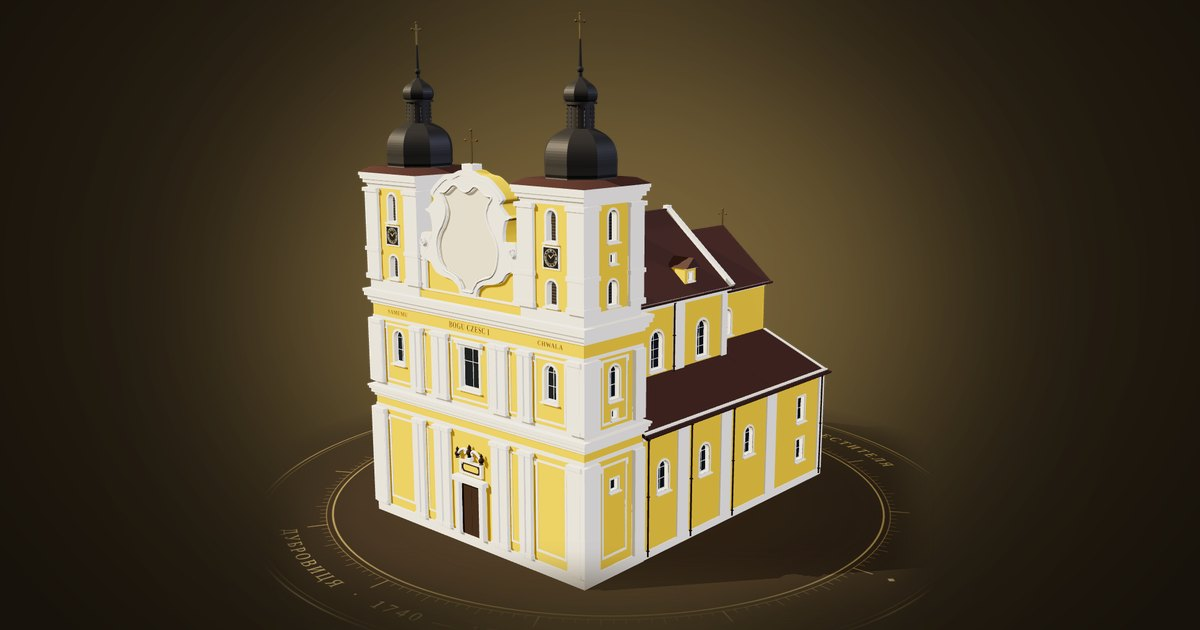
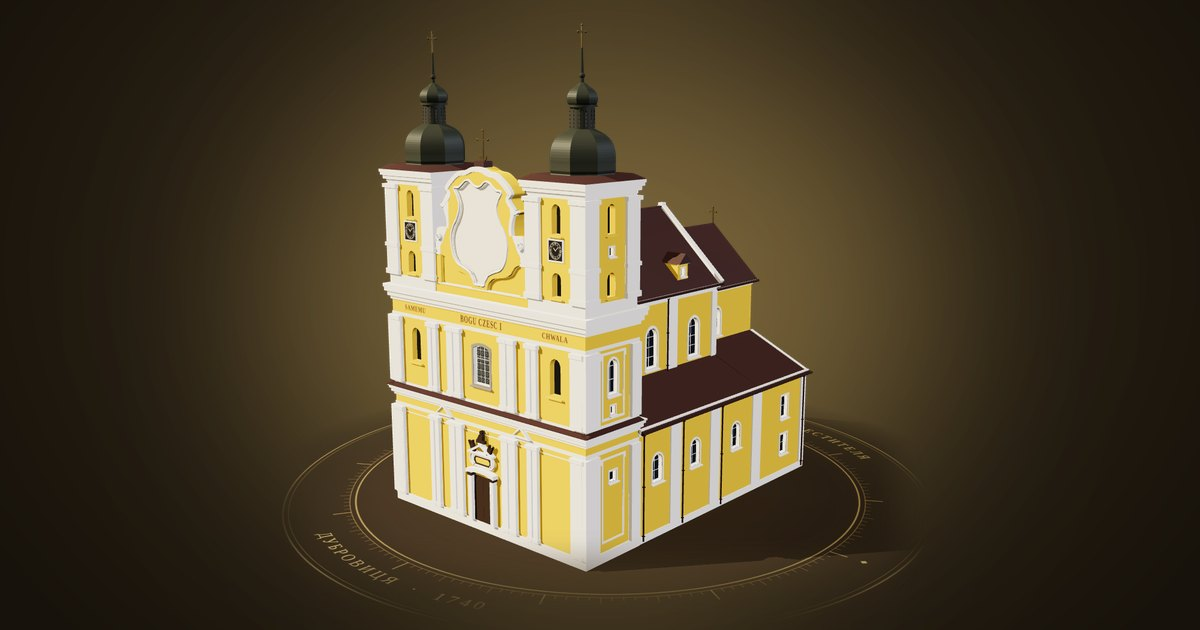
Add files via upload

Changed region(s): [[0.2158, 0.0905, 0.74, 0.9349], [0.4625, 0.1206, 0.4933, 0.2413]]

diff --git a/kostel-3d.js b/kostel-3d.js
@@ -51,9 +51,9 @@ var M = {
   wall:  mat('#eebf30'),
   trim:  mat('#f5f2ea'),
   roof:  mat('#4b3430', {roughness:.55}),
-  field: mat('#e2dacb', {roughness:.95}),
-  dome:  mat('#3a3a3b', {roughness:.62, metalness:.22}),
-  domeF: mat('#3a3a3b', {roughness:.55, metalness:.25, flatShading:true}),
+  field: mat('#efebe2', {roughness:.95}),
+  dome:  mat('#3f4239', {roughness:.62, metalness:.22}),
+  domeF: mat('#43473d', {roughness:.55, metalness:.25, flatShading:true}),
   glass: mat('#2a3036', {roughness:.18, metalness:.1}),
   louv:  mat('#2a2622', {roughness:.7}),
   door:  mat('#3b2a1c', {roughness:.8}),
@@ -77,6 +77,8 @@ var FRONT = 0, RIGHT = Math.PI/2, LEFT = -Math.PI/2, BACK = Math.PI;
 function ext(shape, depth, seg){ return new THREE.ExtrudeGeometry(shape, {depth:depth, bevelEnabled:false, curveSegments:seg||20}); }
 function V(x, y){ return new THREE.Vector2(x, y); }
 function archS(w, yb, yc, path){ var r = w/2, s = path ? new THREE.Path() : new THREE.Shape(); s.moveTo(-r, yb); s.lineTo(r, yb); s.lineTo(r, yc); s.absarc(0, yc, r, 0, Math.PI, false); s.lineTo(-r, yb); return s; }
+function segS(w, yb, yt, rise, path){ var r = w/2, R = (r*r + rise*rise)/(2*rise), cy = yt - R, a0 = Math.atan2(yt - rise - cy, r), s = path ? new THREE.Path() : new THREE.Shape();
+  s.moveTo(-r, yb); s.lineTo(r, yb); s.lineTo(r, yt - rise); s.absarc(0, cy, R, a0, Math.PI - a0, false); s.lineTo(-r, yb); return s; }
 function rectS(w, yb, yt, path){ var s = path ? new THREE.Path() : new THREE.Shape(); s.moveTo(-w/2, yb); s.lineTo(w/2, yb); s.lineTo(w/2, yt); s.lineTo(-w/2, yt); s.lineTo(-w/2, yb); return s; }
 function ring(r0, r1){ var s = new THREE.Shape(); s.absarc(0, 0, r1, 0, Math.PI*2, false); s.holes.push(new THREE.Path().absarc(0, 0, r0, 0, Math.PI*2, true)); return s; }
 
@@ -92,31 +94,49 @@ var holeDepth = new THREE.ShaderMaterial({
   stencilWrite: true, stencilRef: 1, stencilFunc: THREE.EqualStencilFunc, stencilZPass: THREE.KeepStencilOp
 });
 var revealMat = mat('#f1ede4', {side: THREE.BackSide});
+var revealWall = mat('#e6b62c', {side: THREE.BackSide});
+M.void = mat('#16130f', {roughness:1});
+M.frameG = mat('#8e8a82', {roughness:.8});
+/* leaded glass of the centre window: small panes with a lozenge at every crossing */
+M.leaded = mat('#ffffff', {roughness:.25, metalness:.1});
+M.leaded.map = canvasTex(128, 128, function(k){
+  k.fillStyle = '#2b3238'; k.fillRect(0, 0, 128, 128);
+  var g = k.createLinearGradient(0, 0, 128, 128); g.addColorStop(0, 'rgba(160,180,195,.25)'); g.addColorStop(1, 'rgba(160,180,195,0)'); k.fillStyle = g; k.fillRect(0, 0, 128, 128);
+  k.strokeStyle = '#c9c4b8'; k.lineWidth = 3; k.strokeRect(1.5, 1.5, 125, 125);
+  k.lineWidth = 2.5; k.beginPath(); k.moveTo(64, 34); k.lineTo(94, 64); k.lineTo(64, 94); k.lineTo(34, 64); k.closePath(); k.stroke();
+  [[0,0],[128,0],[0,128],[128,128]].forEach(function(c){ k.beginPath(); k.moveTo(c[0], c[1] + (c[1] ? -22 : 22)); k.lineTo(c[0] + (c[0] ? -22 : 22), c[1]); k.stroke(); });
+});
+M.leaded.map.wrapS = M.leaded.map.wrapT = THREE.RepeatWrapping; M.leaded.map.repeat.set(1/.48, 1/.48);
 M.sash = mat('#f7f5f0', {roughness:.6});
 M.pipe = mat('#4e342b', {roughness:.45, metalness:.35});
 function sunk(o, order){ o.renderOrder = order; o.castShadow = false; o.receiveShadow = false; return o; }
 /* bars: number of rows, or a list of transom heights as fractions of the opening's straight part */
-function win(g, x, y, w, h, arched, fw, bars, glassMat, depth){
-  fw = fw || .2; depth = depth || .35;
-  var yc = y + h - w/2;
-  function opening(path){ return arched ? archS(w, y, yc, path) : rectS(w, y, y + h, path); }
-  var o = arched ? archS(w + 2*fw, y - fw*.6, yc) : rectS(w + 2*fw, y - fw, y + h + fw);
-  o.holes.push(opening(true));
-  add(ext(o, .06), M.trim, x, 0, 0, g);                                            // flat surround
-  box(w + 2*fw + .14, .1, .24, x, y - fw*.6 - .1, .12, M.trim, g);                  // sill
+/* opt: {frame: surround material or null, sill: material or null, reveal: material, seg: rise of a segmental top} */
+function win(g, x, y, w, h, arched, fw, bars, glassMat, depth, opt){
+  fw = fw || .2; depth = depth || .35; opt = opt || {};
+  var yc = y + h - w/2, seg = opt.seg || 0;
+  function opening(path){ return arched ? archS(w, y, yc, path) : seg ? segS(w, y, y + h, seg, path) : rectS(w, y, y + h, path); }
+  var frameM = opt.frame === undefined ? M.trim : opt.frame, sillM = opt.sill === undefined ? M.trim : opt.sill;
+  if (frameM){
+    var o = arched ? archS(w + 2*fw, y - fw*.6, yc) : seg ? segS(w + 2*fw, y - fw, y + h + fw, seg*1.15) : rectS(w + 2*fw, y - fw, y + h + fw);
+    o.holes.push(opening(true));
+    add(ext(o, .06), frameM, x, 0, 0, g);                                          // flat surround
+  }
+  if (sillM) box(w + 2*fw + .14, .1, .24, x, y - fw*.6 - .1, .12, sillM, g);       // sill
   var hg = new THREE.ShapeGeometry(opening(), 24);
   [holeStencil, holeDepth].forEach(function(hm, i){ var m = new THREE.Mesh(hg, hm); m.position.set(x, 0, .02); m.renderOrder = 1 + i; m.frustumCulled = false; g.add(m); });
-  sunk(add(ext(opening(), depth, 24), revealMat, x, 0, -depth, g), 3);              // reveals
+  sunk(add(ext(opening(), depth, 24), opt.reveal || revealMat, x, 0, -depth, g), 3);   // reveals
   sunk(add(new THREE.ShapeGeometry(opening(), 24), glassMat || M.glass, x, 0, -depth + .02, g), 3);
   if (!bars) return;
   var zb = -depth + .03, f = .07, b = .045, top = arched ? yc : y + h;
-  var frame = arched ? archS(w, y, yc) : rectS(w, y, y + h);                        // sash frame round the opening
-  frame.holes.push(arched ? archS(w - 2*f, y + f, yc, true) : rectS(w - 2*f, y + f, y + h - f, true));
-  sunk(add(ext(frame, .05, 24), M.sash, x, 0, zb, g), 3);
-  sunk(box(b, (arched ? yc + w/2 : top) - y - 2*f, .05, x, y + f, zb, M.sash, g), 3); // mullion
+  var sashM = opt.sash || M.sash;
+  var frame = arched ? archS(w, y, yc) : seg ? segS(w, y, y + h, seg) : rectS(w, y, y + h);   // sash frame round the opening
+  frame.holes.push(arched ? archS(w - 2*f, y + f, yc, true) : seg ? segS(w - 2*f, y + f, y + h - f, seg*.9, true) : rectS(w - 2*f, y + f, y + h - f, true));
+  sunk(add(ext(frame, .05, 24), sashM, x, 0, zb, g), 3);
+  sunk(box(b, (arched ? yc + w/2 : top) - y - 2*f, .05, x, y + f, zb, sashM, g), 3); // mullion
   var tr = Array.isArray(bars) ? bars : Array.from({length: bars - 1}, function(_, i){ return (i + 1)/bars; });
   if (arched) tr = tr.concat([1]);
-  tr.forEach(function(t){ sunk(box(w - 2*f, b, .05, x, y + (top - y)*t - b/2, zb, M.sash, g), 3); });
+  tr.forEach(function(t){ sunk(box(w - 2*f, b, .05, x, y + (top - y)*t - b/2, zb, sashM, g), 3); });
 }
 /* raised moulding round a recessed panel */
 function panel(g, x, y, w, h, t, m){
@@ -193,13 +213,25 @@ function corners(y0, y1){ [-1, 1].forEach(function(s){ boxX(s*(HW - 1.28), s*(HW
 frontGroups(.8, 8.6); corners(.8, 8.6);
 boxX(-HW - .05, HW + .05, 8.6, 8.9, -FD - .05, .05, M.trim);                 // architrave
 cornice(-HW, HW, -FD, 0, 9.5, [[.25,.12],[.3,.3],[.2,.42],[.15,.5]]);           // → 10.4
-[-1, 1].forEach(function(s){ panel(FF, s*7.99, 1.5, 2.9, 6.7); panel(FF, s*4.51, 1.5, .9, 6.7, .12); });
+boxX(-HW + .3, HW - .3, 8.16, 8.24, -.02, .05, M.trim);                        // thin band under the capitals
+(function(){                                                                      // tin flashing on the lower cornice
+  var a = Math.atan2(.16, .62);
+  var f = box(2*HW + 1.1, .04, .66, 0, 10.46, .27, M.roof); f.rotation.x = a;
+  [-1, 1].forEach(function(s){ var b = box(.66, .04, FD + .5, s*(HW + .27), 10.46, -FD/2 + .25, M.roof); b.rotation.z = -s*a; });
+})();
+[-1, 1].forEach(function(s){                                                      // small pediments over the narrow bays
+  var t = new THREE.Shape([V(-1.0, 0), V(1.0, 0), V(0, .95)]); t.holes.push(new THREE.Path([V(-.72, .12), V(0, .72), V(.72, .12)]));
+  add(ext(t, .34), M.trim, s*4.51, 8.92, .02);
+  add(ext(new THREE.Shape([V(-.72, .12), V(.72, .12), V(0, .72)]), .2), M.wall, s*4.51, 8.92, .02);
+});
 /* portal */
 (function(){
   box(2.1, 3.8, .14, 0, .8, .07, M.door);
   box(.06, 3.6, .03, 0, .9, .15, M.orn);
   [-1, 1].forEach(function(s){ box(.4, 4.1, .44, s*1.27, .8, .22, M.trim); });
-  box(3.3, .38, .58, 0, 4.9, .29, M.trim);
+  [-1, 1].forEach(function(s){ box(.5, .22, .5, s*1.27, 4.62, .24, M.orn); });
+  (function(){ var b = new THREE.Shape(); b.moveTo(-1.62, 4.84); b.quadraticCurveTo(0, 5.3, 1.62, 4.84); b.lineTo(1.62, 5.16); b.quadraticCurveTo(0, 5.62, -1.62, 5.16); b.lineTo(-1.62, 4.84);
+    add(ext(b, .56, 24), M.trim, 0, 0, .02); })();
   var pl = rectS(2.4, 0, 1.05); pl.holes.push(rectS(2.0, .17, .88, true));
   add(ext(pl, .18), M.trim, 0, 5.45, .05);
   function plaque(w, h, r){ var s = new THREE.Shape(), a = w/2, b = h/2;
@@ -208,14 +240,28 @@ cornice(-HW, HW, -FD, 0, 9.5, [[.25,.12],[.3,.3],[.2,.42],[.15,.5]]);           
   var pb = plaque(1.9, .66, .16); pb.holes.push(new THREE.Path(plaque(1.72, .5, .12).getPoints(12)));
   add(ext(pb, .1, 12), M.orn, 0, 5.975, .1);
   add(ext(plaque(1.72, .5, .12), .06, 12), M.wall, 0, 5.975, .08);
-  /* broken pediment: two white scrolls rising towards the middle, dark vases on their outer ends, a dark urn between them */
+  /* C-scrolls beside the plaque */
   [-1, 1].forEach(function(s){
-    var c = new THREE.CatmullRomCurve3([[1.3,0],[1.18,.32],[.92,.6],[.6,.78],[.36,.76],[.28,.6],[.38,.5],[.48,.56]].map(function(p){ return new THREE.Vector3(s*p[0], 6.62 + p[1], .28); }));
-    add(new THREE.TubeGeometry(c, 70, .11, 10, false), M.trim);
-    add(new THREE.LatheGeometry([V(0,0),V(.15,0),V(.1,.07),V(.2,.22),V(.2,.34),V(.1,.48),V(.05,.5),V(.12,.62),V(.03,.78),V(0,.8)], 16), M.orn, s*1.28, 6.62, .28);
+    var c = new THREE.CatmullRomCurve3([[1.22,1.0],[1.4,.75],[1.38,.42],[1.2,.18],[1.0,.1],[.92,.26],[1.04,.36]].map(function(p){ return new THREE.Vector3(s*p[0], 5.45 + p[1], .2); }));
+    add(new THREE.TubeGeometry(c, 50, .085, 8, false), M.trim);
   });
-  box(.5, .28, .36, 0, 6.62, .26, M.trim);
-  add(new THREE.LatheGeometry([V(0,0),V(.16,0),V(.11,.08),V(.24,.3),V(.22,.46),V(.1,.58),V(.15,.66),V(.04,.9),V(0,.92)], 18), M.orn, 0, 6.9, .26);
+  /* gabled pediment: two moulded rakes meeting under a pedestal; dark sculptures on the ends and on top */
+  var PB = 6.55, PT = 7.3, pa = Math.atan2(PT - PB, 1.35), pl2 = Math.hypot(1.35, PT - PB) + .1;
+  box(2.9, .16, .46, 0, PB, .23, M.trim);
+  [-1, 1].forEach(function(s){ var r = box(pl2, .2, .46, s*.67, PB + (PT - PB)/2 - .02, .23, M.trim); r.rotation.z = -s*pa; });
+  box(.46, .3, .4, 0, PT - .06, .22, M.trim);
+  function figure(x, y, z, flip, sc){       // a kneeling figure, simplified to a dark silhouette in relief
+    var p = [[0,0],[.42,0],[.44,.12],[.3,.18],[.34,.42],[.28,.62],[.2,.7],[.22,.82],[.16,.9],[.08,.88],[.06,.78],[.1,.68],[.0,.55],[-.16,.75],[-.3,.82],[-.22,.6],[-.1,.42],[-.04,.2]];
+    var sh = new THREE.Shape(p.map(function(q){ return V(flip*q[0]*sc, q[1]*sc); }));
+    add(ext(sh, .22, 6), M.orn, x, y, z);
+  }
+  figure(-1.12, PB + .14, .16, 1, 1.0); figure(1.12, PB + .14, .16, -1, 1.0);
+  /* St John the Baptist on top: a seated figure with a cross-staff */
+  (function(){
+    var p = [[-.42,0],[.42,0],[.4,.16],[.18,.22],[.22,.5],[.16,.66],[.18,.8],[.08,.9],[-.04,.88],[-.08,.76],[-.04,.66],[-.18,.52],[-.3,.28],[-.42,.2]];
+    add(ext(new THREE.Shape(p.map(function(q){ return V(q[0]*1.15, q[1]*1.15); })), .26, 6), M.orn, 0, PT + .24, .1);
+    box(.04, 1.1, .04, .38, PT + .24, .24, M.orn); box(.26, .04, .04, .38, PT + 1.12, .24, M.orn);
+  })();
 })();
 /* lower tier sides: small square window */
 [-1, 1].forEach(function(s){ var g = face(s*HW, -3.0, s*RIGHT); win(g, 0, 6.2, .8, .8, false, .14); panel(g, 0, 1.5, 2.6, 6.7); });
@@ -226,30 +272,27 @@ frontGroups(H1 + .35, 15.7); corners(H1 + .35, 15.7);
 boxX(-HW - .05, HW + .05, 15.7, 15.95, -FD - .05, .05, M.trim);              // architrave
 cornice(-HW, HW, -FD, 0, 16.85, [[.25,.12],[.35,.3],[.3,.48],[.25,.55]]);      // → 18.0
 [-1, 1].forEach(function(s){
-  panel(FF, s*7.99, 11.0, 2.9, 4.5);
-  win(FF, s*7.99, 12.55, 1.1, 2.45, true, .2, 2);
-  panel(FF, s*4.51, 11.0, .9, 4.5, .12);
+  win(FF, s*7.99, 12.55, 1.1, 2.45, true, .2, 0, M.void, .5, {frame: null, sill: M.wall, reveal: revealWall});
   var g = face(s*HW, -3.0, s*RIGHT);
   panel(g, 0, 11.0, 2.6, 4.5);
   win(g, 0, 12.65, 1.0, 2.3, true, .18, 2);
   win(g, 0, 11.3, .55, .55, false, .12);
 });
-panel(FF, 0, 11.0, 4.0, 4.5);
-win(FF, 0, 11.95, 1.9, 3.0, false, .22, [.64]);
-[-1, 1].forEach(function(s){ box(.2, .5, .06, s*1.27, 14.67, .03, M.trim, FF); });
-box(2.75, .3, .3, 0, 15.2, .15, M.trim, FF);                                   // eared lintel over the centre window
+win(FF, 0, 12.0, 1.85, 2.75, false, .2, [.64], M.leaded, .35, {frame: M.frameG, sill: M.frameG, seg: .22, sash: M.sash});
 /* inscription in the frieze */
 (function(){
   function label(text, w, x){
     var t = canvasTex(1024, 180, function(k){
       k.fillStyle = '#eebf30'; k.fillRect(0, 0, 1024, 180);
-      k.fillStyle = '#2b1f10'; k.font = 'bold 150px "Times New Roman", Georgia, serif'; k.textAlign = 'center'; k.textBaseline = 'middle';
+      k.font = 'bold 150px "Times New Roman", Georgia, serif'; k.textAlign = 'center'; k.textBaseline = 'middle';
       try { k.letterSpacing = '10px'; } catch(e){}
-      k.fillText(text, 512, 98, 1000);
+      /* bronze letters with a gilded edge, as on the facade */
+      k.lineJoin = 'round'; k.strokeStyle = '#b8924a'; k.lineWidth = 9; k.strokeText(text, 512, 98, 1000);
+      k.fillStyle = '#5a3a26'; k.fillText(text, 512, 98, 1000);
     });
     add(new THREE.PlaneGeometry(w, w*180/1024), new THREE.MeshStandardMaterial({map:t, roughness:.9}), x, 16.4, .015).castShadow = false;
   }
-  label('SAMEMU', 3.3, -7.99); label('BOGU CZESC I', 4.4, 0); label('CHWALA', 3.3, 7.99);
+  label('SAMEMU', 3.7, -7.99); label('BOGU CZESC I', 4.9, 0); label('CHWALA', 3.7, 7.99);
 })();
 
 /* ═══════════ TOWERS · 5.6 m square, flush with the facade's corners ═══════════ */
@@ -286,8 +329,8 @@ function tower(cx){
   /* openings on all four faces; clocks on the front faces */
   [[cx, cz + h, FRONT],[cx, cz - h, BACK],[cx + h, cz, RIGHT],[cx - h, cz, LEFT]].forEach(function(f, i){
     var g = face(f[0], f[1], f[2]);
-    win(g, 0, 19.1, .9, 1.65, true, .16, 0, M.louv, .45);
-    win(g, 0, 23.35, .85, 2.0, true, .18, 0, M.louv, .45);
+    win(g, 0, 19.1, .9, 1.65, true, .16, 0, M.void, .55, {frame: null, sill: M.wall, reveal: revealWall});
+    win(g, 0, 23.35, .85, 2.0, true, .18, 0, M.void, .55, {frame: null, sill: M.wall, reveal: revealWall});
     if (i === 0){                                                   // black clock face in a white square frame
       box(1.55, 1.55, .1, 0, 21.5, .05, M.trim, g);
       add(new THREE.PlaneGeometry(1.31, 1.31), clockMat, 0, 22.275, .102, g).castShadow = false;
@@ -356,8 +399,16 @@ tower(-8.2); tower(8.2);
   add(ext(shapeOf(fo), 1.08, 4), M.wall, 0, 0, z0 - 1.1);
   add(ext(shapeOf(fo), .07, 4), M.trim, 0, 0, z0 - .02);
 
-  /* the white frame, a rib following its top edge, the field sunk deep inside a rounded edge */
-  add(ext(shapeOf(fo, fi), FR, 4), M.trim, 0, 0, zf);
+  /* the frame: yellow like the wall (as on the building today), a white border along its upper edge down to the
+     consoles, a rib following the top edge, the white shield sunk inside a rounded edge */
+  add(ext(shapeOf(fo, fi), FR, 4), M.wall, 0, 0, zf);
+  (function(){
+    var run = half(OUT.slice(0, 26), 420, 4.89).slice(0, -1);
+    run = mirror(run.slice(1)).reverse().concat(run);
+    var strip = run.map(function(p, i){ var a = run[Math.max(0, i - 2)], b = run[Math.min(run.length - 1, i + 2)], tx = b.x - a.x, ty = b.y - a.y, L = Math.hypot(tx, ty) || 1; return [V(p.x - ty/L*.015, p.y + tx/L*.015), V(p.x + ty/L*.27, p.y - tx/L*.27)]; });
+    var shp = strip.map(function(q){ return q[0]; }).concat(strip.map(function(q){ return q[1]; }).reverse());
+    add(ext(new THREE.Shape(shp), FR + .03, 4), M.trim, 0, 0, zf);
+  })();
   (function(){
     var run = half(OUT.slice(0, 10), 160, 7.75).slice(0, -1);
     run = mirror(run.slice(1)).reverse().concat(run);                // left slope … top … right slope
@@ -387,12 +438,14 @@ tower(-8.2); tower(8.2);
     add(ext(new THREE.Shape(pts.concat(ins.reverse())), .18, 4), M.trim, 0, 0, zf + FR);
     add(new THREE.SphereGeometry(.1, 14, 10), M.trim, cx, cy, zf + FR + .08);
     /* pier under the console, with a capital */
-    boxX(s*4.56, s*5.37, gy + BT, gy + 2.96, zf - .02, zf + FR - .04, M.trim);
+    boxX(s*4.56, s*5.37, gy + BT, gy + 2.96, zf - .02, zf + FR - .04, M.wall);
     boxX(s*4.5, s*(TW + .02), gy + 2.84, gy + 2.98, zf - .02, zf + FR + .06, M.trim);
-    boxX(s*4.5, s*(TW + .02), gy + BT, gy + BT + .2, zf - .02, zf + FR + .02, M.trim);
+    boxX(s*4.5, s*(TW + .02), gy + BT, gy + BT + .2, zf - .02, zf + FR + .02, M.wall);
   });
-  box(1.1, .45, .9, 0, top - .05, z0 - .35, M.trim);
+  box(1.1, .45, .9, 0, top - .05, z0 - .35, M.roof);                              // tin-clad block under the cross
   crossAt(0, top + .4, z0 - .35, 2.3);
+  var cr = new THREE.Shape(); cr.absarc(0, 0, .42, Math.PI*1.05, Math.PI*1.95, false); cr.absarc(0, .14, .36, Math.PI*1.9, Math.PI*1.1, true);
+  add(ext(cr, .07, 16), M.cross, 0, top + .78, z0 - .385);
 })();
 
 /* ═══════════ NAVE · three bays, a full gabled roof ending in a gable wall at the back ═══════════ */
@@ -553,6 +606,31 @@ function shapeOf2(loop, hole){ var s = new THREE.Shape(loop); if (hole) s.holes.
   root.children.slice().forEach(function(c){ if (!c.isMesh && c.children.length === 0) root.remove(c); });
 })(church);
 
+/* ═══════════ PROPORTIONS · checked against photographs taken from the square: the second tier is about 15 %
+   and the towers with the gable about 8 % taller than the measured drawing gives; the lower tier and the domes stay
+   as they are. Applied as a vertical stretch by zones, baked into the geometry (normals corrected). ═══════════ */
+var Z1 = 10.4, Z2 = 18.0, Z3 = 26.3, K2 = 1.15, K3 = 1.08;
+function lift(y){ if (y <= Z1) return y; if (y <= Z2) return Z1 + (y - Z1)*K2; var y2 = Z1 + (Z2 - Z1)*K2; if (y <= Z3) return y2 + (y - Z2)*K3; return y2 + (Z3 - Z2)*K3 + (y - Z3); }
+function liftK(y){ return y <= Z1 ? 1 : y <= Z2 ? K2 : y <= Z3 ? K3 : 1; }
+(function(root){
+  root.updateMatrixWorld(true);
+  var meshes = []; root.traverse(function(o){ if (o.isMesh) meshes.push(o); });
+  meshes.forEach(function(o){
+    var g = o.geometry.clone(); g.applyMatrix4(o.matrixWorld);
+    var p = g.attributes.position, n = g.attributes.normal, v = new THREE.Vector3();
+    for (var i = 0; i < p.count; i++){
+      var y = p.getY(i), k = liftK(y);
+      if (n){ v.set(n.getX(i), n.getY(i)/k, n.getZ(i)).normalize(); n.setXYZ(i, v.x, v.y, v.z); }
+      p.setY(i, lift(y));
+    }
+    g.computeBoundingSphere(); g.computeBoundingBox();
+    o.geometry = g;
+    if (o.parent !== root){ o.parent.remove(o); root.add(o); }
+    o.position.set(0, 0, 0); o.rotation.set(0, 0, 0); o.scale.set(1, 1, 1); o.updateMatrix();
+  });
+  root.children.slice().forEach(function(c){ if (!c.isMesh && c.children.length === 0) root.remove(c); });
+})(church);
+
 /* ═══════════ GROUND · a turntable engraved with the church's name ═══════════ */
 var GC = -15;                                         // centre of the church on the long axis
 (function(){
@@ -584,7 +662,7 @@ var GC = -15;                                         // centre of the church on
       });
     }
     arc('КОСТЕЛ  ІОАННА  ХРЕСТИТЕЛЯ', 0, false, fs*.22);
-    arc('ДУБРОВИЦЯ  ·  1740 — 1742', Math.PI, true, fs*.22);
+    arc('ДУБРОВИЦЯ  ·  1740', Math.PI, true, fs*.22);
     [Math.PI/2, -Math.PI/2].forEach(function(t){ k.save(); k.translate(c + Math.sin(t)*rt, c - Math.cos(t)*rt); k.rotate(t + Math.PI/4); k.fillRect(-fs*.13, -fs*.13, fs*.26, fs*.26); k.restore(); });
   });
   var gm = new THREE.MeshStandardMaterial({map:tex, roughness:1, transparent:true, depthWrite:false});
@@ -615,7 +693,7 @@ var fill = new THREE.DirectionalLight('#d3dcff', .5); fill.position.set(42, 18, 
 
 /* ── camera + controls ── */
 var controls = new THREE.OrbitControls(camera, canvas);
-controls.target.set(0, o.targetY || 16.5, -14);
+controls.target.set(0, o.targetY || 17.3, -14);
 var viewDir = new THREE.Vector3(o.view[0], o.view[1], o.view[2]).normalize(), touched = false;
 controls.enableDamping = true; controls.dampingFactor = .07;
 controls.minDistance = 22; controls.maxDistance = 180;
@@ -629,7 +707,7 @@ controls.autoRotate = !!o.autoRotate && !reduced; controls.autoRotateSpeed = o.a
 controls.addEventListener('start', function(){ controls.autoRotate = false; touched = true; tween = null; if (o.onStart) o.onStart(); });
 
 function home(){
-  var t = Math.tan(camera.fov*Math.PI/360), dist = Math.max(25.5/t, 25/(t*camera.aspect))*o.fit;
+  var t = Math.tan(camera.fov*Math.PI/360), dist = Math.max(27/t, 25/(t*camera.aspect))*o.fit;
   return controls.target.clone().addScaledVector(viewDir, dist);
 }
 function resize(){

diff --git a/kostel-3d.html b/kostel-3d.html
@@ -116,7 +116,7 @@ h1{margin:0;font:400 clamp(1.8rem,3.4vw,2.8rem)/1 var(--display);letter-spacing:
     <dt>1945</dt><dd>Костел зачинено: дзвони вивезено, орган знищено, будівлю віддано під склад.</dd>
     <dt>1992</dt><dd>Повторно освячений і повернутий громаді.</dd>
   </dl>
-  <blockquote><b>SAMEMU BOGU CZEŚĆ I CHWAŁA</b>«Самому Богові честь і слава» — напис на фризі головного фасаду.</blockquote>
+  <blockquote><b>SAMEMU BOGU CZESC I CHWALA</b>«Самому Богові честь і слава» — напис на фризі головного фасаду (на будівлі — без польських діакритиків).</blockquote>
   <a class="go" href="architecture.html">Історія костелу й інтер'єр →</a>
   <p class="src">Модель відтворює теперішній вигляд будівлі; пропорції — за обмірним кресленням і фотографіями, дрібний декор спрощено.</p>
 </aside>
@@ -145,7 +145,7 @@ h1{margin:0;font:400 clamp(1.8rem,3.4vw,2.8rem)/1 var(--display);letter-spacing:
   }
   if (!window.Kostel3D){ fail('load'); return; }
   var narrow = matchMedia('(max-width:640px)').matches;
-  Kostel3D.mount(cv, {motes: true, view: [46, 11, 52], targetY: 15.5, fit: narrow ? 1.08 : 1.14,
+  Kostel3D.mount(cv, {motes: true, view: [46, 11, 52], targetY: 16.4, fit: narrow ? 1.08 : 1.14,
     onStart: function(){ hint.style.opacity = 0; spin.setAttribute('aria-pressed', 'false'); },
     onReady: function(){ cv.classList.add('on'); poster.classList.add('off'); load.classList.add('off'); },
     onFail: fail

diff --git a/index.html b/index.html
@@ -6919,7 +6919,7 @@ g.ULB={open:open,close:close,nav:nav,
   function idle(f){ (window.requestIdleCallback || function(g){ setTimeout(g, 250); })(f, { timeout: 1200 }); }
   function mount3d(){
     if (!window.Kostel3D) { st.classList.add('nogl'); return; }
-    Kostel3D.mount(cv, { zoom: false, touch: 'pan-y', view: [46, 14, 52], targetY: 15.6, fit: innerWidth < 980 ? 1.1 : 1.07, pixelRatio: 1.75,
+    Kostel3D.mount(cv, { zoom: false, touch: 'pan-y', view: [46, 14, 52], targetY: 16.5, fit: innerWidth < 980 ? 1.1 : 1.07, pixelRatio: 1.75,
       shadow: innerWidth < 700 ? 1024 : 2048, motes: true, autoRotateSpeed: .55,
       onStart: function(){ st.classList.add('touched'); },
       onReady: function(){ st.classList.add('live'); },
